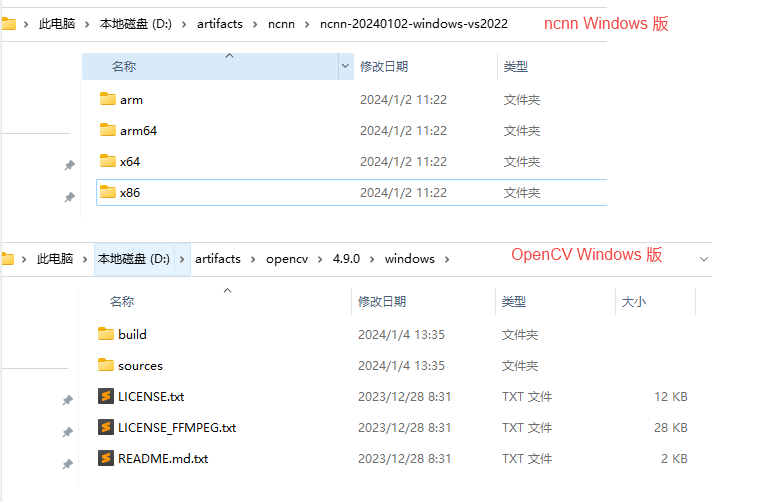
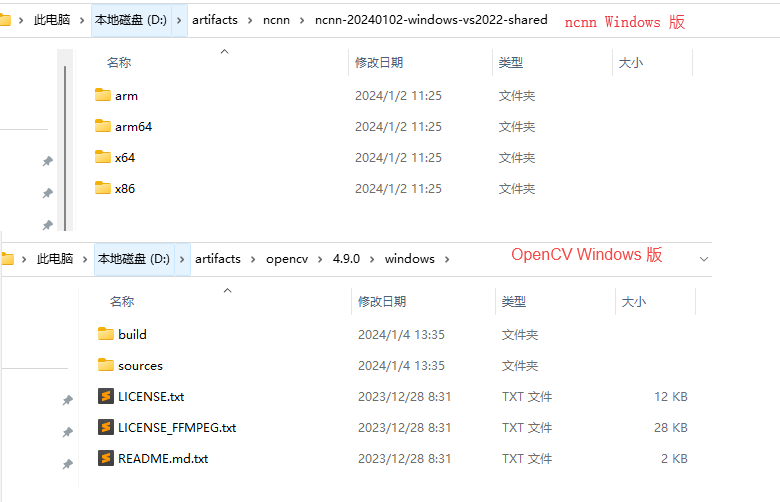
feat: switch to ncnn shared lib, disable opencv videoio logging

diff --git a/main.cpp b/main.cpp
@@ -2,15 +2,21 @@
 
 #include "net.h"
 
-#include <algorithm>
-#include <opencv2/core/core.hpp>
-#include <opencv2/highgui/highgui.hpp>
-#include <opencv2/imgproc.hpp>
 #include <stdio.h>
 #include <vector>
 #include <string>
 #include <iostream>
 #include <fstream>
+#include <algorithm>
+#include <opencv2/core/core.hpp>
+#include <opencv2/highgui/highgui.hpp>
+#include <opencv2/imgproc.hpp>
+#include <opencv2/core/utils/logger.hpp>
+
+static void disable_opencv_videoio_logging()
+{
+    cv::utils::logging::setLogLevel(cv::utils::logging::LogLevel::LOG_LEVEL_SILENT);
+}
 
 // There are 5 differences between squeezenet_v1.1.param and squeezenet_v1.1.ncnn.param
 static int detect_squeezenet_pnnx(const cv::Mat& bgr, std::vector<float>& cls_scores)
@@ -127,7 +133,7 @@ static int print_topk(const std::vector<float>& cls_scores, int topk, const std:
         int index = vec[i].second;
         ClassMeaning cm = class_meaning[index];
         fprintf(stdout, "top%d: index=%d, conf=%.3f, id=%s, meaning=%s\n", 
-            i,
+            i + 1,
             index,
             score,
             cm.id.c_str(),
@@ -178,6 +184,7 @@ static std::vector<ClassMeaning> read_class_meaing(const char* text_file_path)
 
 int main(int argc, char** argv)
 {
+    disable_opencv_videoio_logging();
     // if (argc != 2)
     // {
     //     fprintf(stderr, "Usage: %s [imagepath]\n", argv[0]);

diff --git a/README.md b/README.md
@@ -26,9 +26,11 @@ pip install -U pnnx
 
 下载 ncnn: https://github.com/Tencent/ncnn/releases
 
-D:\artifacts\ncnn\ncnn-20240102-windows-vs2022
+我用的动态库, 解压到 `D:\artifacts\ncnn\ncnn-20240102-windows-vs2022-shared` 目录
 
 下载 opencv: https://github.com/opencv/opencv/releases/
+
+解压到 `D:\artifacts\opencv\4.9.0\windows` 目录
 
 ## 转模型
 
